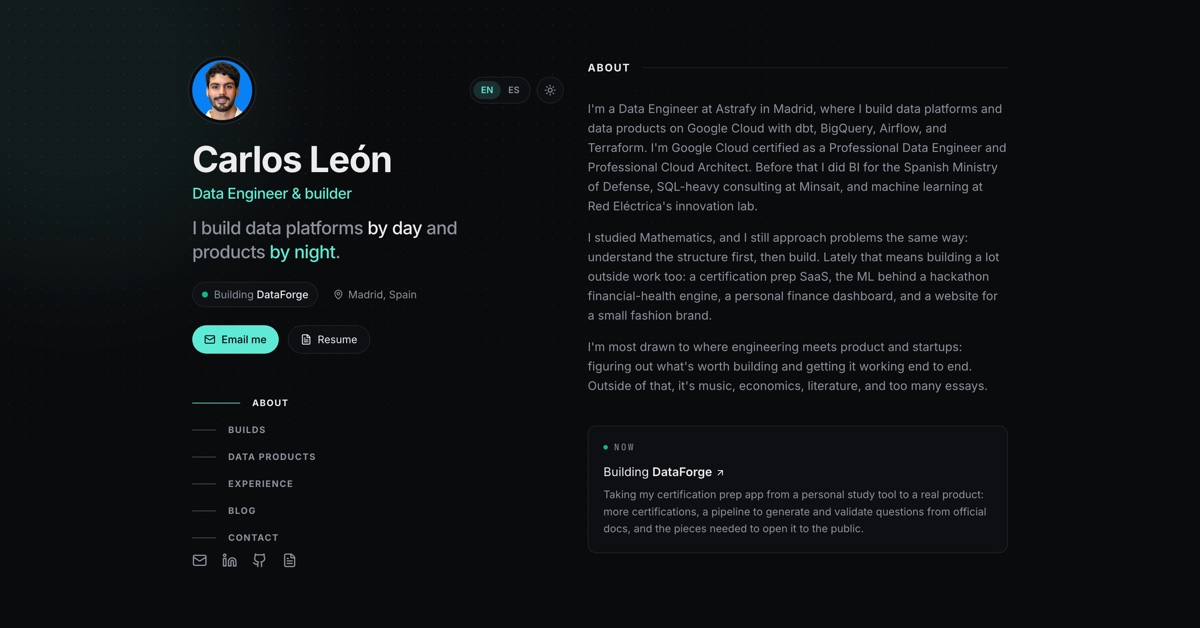
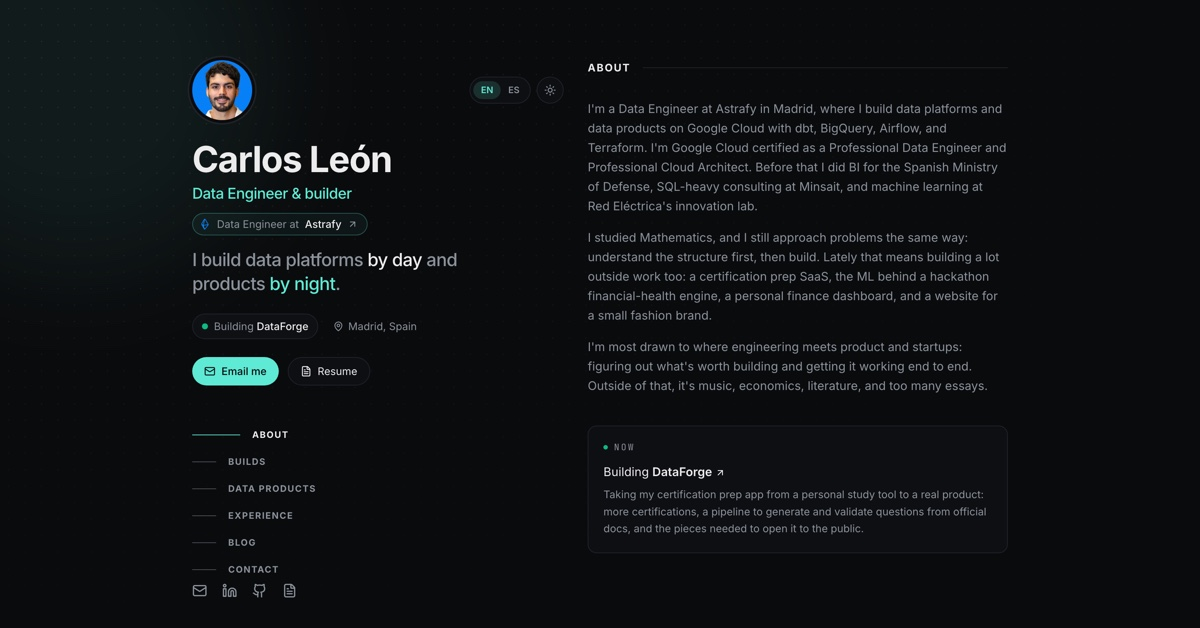
feat: show current role at Astrafy in the sidebar
Add a "Data Engineer at Astrafy" badge with the company logo under the
title, drop the duplicate Email me button from the contact section and
refresh the social preview images.

Generated with [Devin](https://devin.ai)

Changed region(s): [[0.1542, 0.5143, 0.3392, 0.9682], [0.1542, 0.3328, 0.4008, 0.4841]]

diff --git a/components/home/sidebar.tsx b/components/home/sidebar.tsx
@@ -3,7 +3,7 @@
 import { useEffect, useState } from "react";
 import Image from "next/image";
 import Link from "next/link";
-import { FileText, Mail, MapPin } from "lucide-react";
+import { ArrowUpRight, FileText, Mail, MapPin } from "lucide-react";
 import { siteConfig } from "@/data/site";
 import type { Dictionary } from "@/data/i18n/types";
 import { SocialLinks } from "@/components/ui/social-links";
@@ -67,6 +67,20 @@ export function Sidebar({ lang, dict }: SidebarProps) {
         <h2 className="mt-2 text-lg font-medium tracking-tight text-accent sm:text-xl">
           {profile.role}
         </h2>
+        <a
+          href={siteConfig.work.url}
+          target="_blank"
+          rel="noopener noreferrer"
+          className="group mt-3 inline-flex items-center gap-2 rounded-full border border-accent/30 bg-accent/5 py-1 pl-2 pr-3 text-sm text-text-secondary transition-colors hover:border-accent/60 hover:text-text-primary"
+        >
+          <Image src={siteConfig.work.logo} alt="" width={16} height={16} className="h-4 w-4" />
+          {profile.workAt}
+          <span className="font-medium text-text-primary">{siteConfig.work.company}</span>
+          <ArrowUpRight
+            size={14}
+            className="transition-transform group-hover:-translate-y-0.5 group-hover:translate-x-0.5"
+          />
+        </a>
         <p className="mt-4 max-w-sm text-xl font-medium leading-snug tracking-tight text-text-secondary sm:text-2xl">
           {headline.start}
           <span className="whitespace-nowrap text-text-primary">{headline.day}</span>

diff --git a/app/[lang]/page.tsx b/app/[lang]/page.tsx
@@ -1,5 +1,5 @@
 import Link from "next/link";
-import { ArrowRight, ArrowUpRight, Mail } from "lucide-react";
+import { ArrowRight, ArrowUpRight } from "lucide-react";
 import { Sidebar } from "@/components/home/sidebar";
 import { HomeSection } from "@/components/home/home-section";
 import { ProjectRow } from "@/components/ui/project-row";
@@ -115,12 +115,6 @@ export default function HomePage({ params }: { params: { lang: Lang } }) {
               {dict.contact.title.end}
             </h3>
             <p className="mt-4 max-w-md leading-relaxed text-text-secondary">{dict.contact.text}</p>
-            <div className="mt-8">
-              <a href={`mailto:${siteConfig.social.email}`} className="btn-primary">
-                <Mail size={15} />
-                {dict.profile.emailMe}
-              </a>
-            </div>
             <div className="mt-8">
               <ContactList labels={dict.contact.links} />
             </div>

diff --git a/data/site.ts b/data/site.ts
@@ -10,6 +10,7 @@ export const siteConfig = {
     linkedin: "https://linkedin.com/in/carleondel",
     email: "carleondel@gmail.com",
   },
+  work: { company: "Astrafy", url: "https://astrafy.io", logo: "/logos/astrafy.png" },
   now: { project: "DataForge", slug: "dataforge" },
   sections: ["about", "builds", "data", "experience", "blog", "contact"] as SectionId[],
 };

diff --git a/data/i18n/types.ts b/data/i18n/types.ts
@@ -31,6 +31,7 @@ export interface Dictionary {
   nav: Record<SectionId, string>;
   profile: {
     role: string;
+    workAt: string;
     headline: { start: string; day: string; middle: string; night: string; end: string };
     location: string;
     building: string;

diff --git a/data/i18n/es.ts b/data/i18n/es.ts
@@ -16,6 +16,7 @@ export const es: Dictionary = {
   },
   profile: {
     role: "Data Engineer & builder",
+    workAt: "Data Engineer en",
     headline: {
       start: "Construyo plataformas de datos ",
       day: "de día",

diff --git a/data/i18n/en.ts b/data/i18n/en.ts
@@ -16,6 +16,7 @@ export const en: Dictionary = {
   },
   profile: {
     role: "Data Engineer & builder",
+    workAt: "Data Engineer at",
     headline: {
       start: "I build data platforms ",
       day: "by day",
